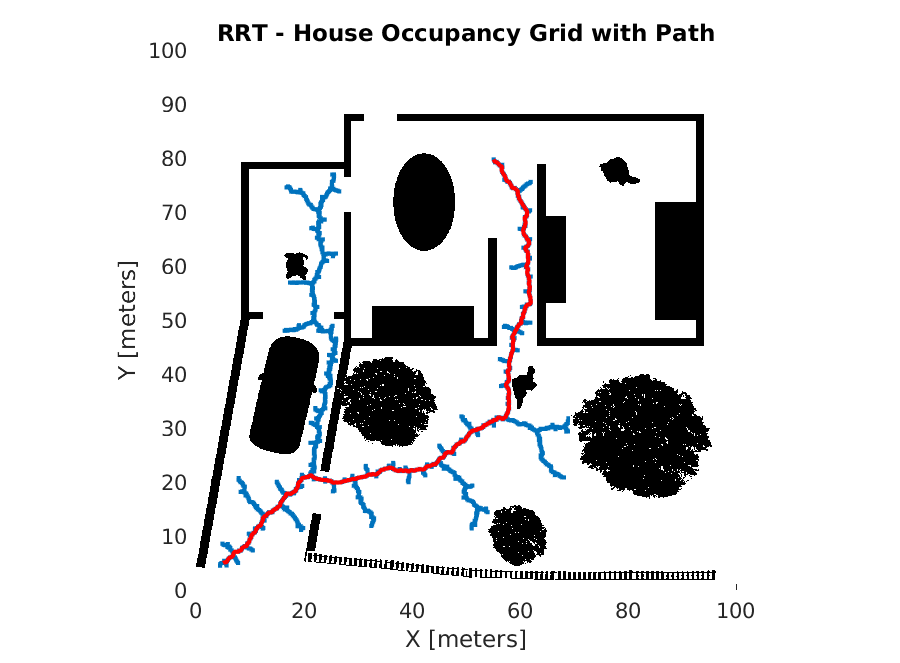
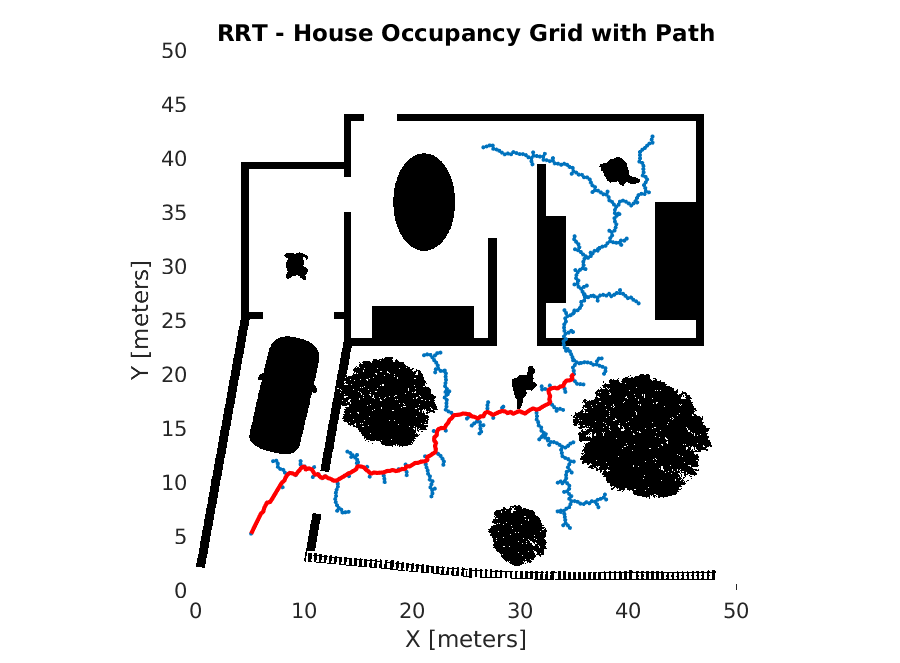
added RRT to main file. renamed MLX so m file would run

diff --git a/main.m b/main.m
@@ -3,6 +3,72 @@
 % The authors of this code are: Christian Chang, Christopher Poole, Trevor Rizzo and Diana
 % Lee Guzman
 
+close all
+clear all
+clc
+
+%% Process Overview
+
+
+%% Environment Setup
+
+% MATLAB Toolboxes Needed:
+% 
+% Parallel Computing Toolbox
+% Automated Driving Toolbox
+% Symbolic Math Toolbox
+
+% ensure figures folder exists
+if not(isfolder('figures'))
+    mkdir('figures')
+end
+
+UAVsize = 0.2;
+
+%% Map Generation
+
+[city_occgrid, city_occgrid_unscaled] = loadMap('city_map.png', 50);
+figure
+show(city_occgrid_unscaled)
+title('City Map')
+saveas(gcf,[pwd '/figures/city_map.png'])
+
+inflated_city_occgrid = inflateMap(city_occgrid, UAVsize, 1.0);
+
+[house_occgrid, house_occgrid_unscaled] = loadMap('house_map.png', 50);
+figure
+show(house_occgrid_unscaled)
+title('House Map')
+saveas(gcf,[pwd '/figures/house_map.png'])
+
+inflated_house_occgrid = inflateMap(house_occgrid, UAVsize, 1.0);
+
+%% Path Planning
+
+start_city = [30,35];
+goal_city = [5,5];
+
+start_house = [35,20];
+goal_house = [5,5];
+
+% RRT
+
+[time_elapsed_rrt_grid1, path_distance_rrt_grid1, pthObj, solnInfo] = rrt(inflated_city_occgrid, [start_city 0], [goal_city 0]);   
+plotSolvedPath(city_occgrid_unscaled,solnInfo,pthObj,'RRT - City Occupancy Grid with Path','/figures/rrt_city_path_1.png');
+
+[time_elapsed_rrt_grid2, path_distance_rrt_grid2, pthObj, solnInfo] = rrt(inflated_house_occgrid, [start_house 0], [goal_house 90]);   
+plotSolvedPath(house_occgrid_unscaled,solnInfo,pthObj,'RRT - House Occupancy Grid with Path','/figures/rrt_house_path_1.png');
+
+% A*
+
+% JPS & SFC
+
+
+%% Path Analysis
+
+
+%% Planner Analysis
+
 iterations = [1;2;3;4;5;6;7;8;9;10];
 
 %Time Elapsed sfc
@@ -10,16 +76,16 @@ time_elapsed_sfc_grid1 = [1;3;2;5;4;7;6;9;10;8];
 time_elapsed_sfc_grid2 = [1;2;3;4;5;6;7;8;9;10];
 
 %Time elapsed RRT
-time_elapsed_rrt_grid1 = [1;10;9;8;7;5;4;3;2;1];
-time_elapsed_rrt_grid2 = [10;9;8;7;6;10;9;4;5;6];
+% time_elapsed_rrt_grid1 = [1;10;9;8;7;5;4;3;2;1];
+% time_elapsed_rrt_grid2 = [10;9;8;7;6;10;9;4;5;6];
 
 %Path Distance SFC
 path_distance_sfc_grid1 = [1;3;2;5;4;7;6;9;10;8];
 path_distance_sfc_grid2 = [1;2;3;4;5;6;7;8;9;10];
 
 %Path Distance RRT
-path_distance_rrt_grid1 = [1;10;9;8;7;5;4;3;2;1];
-path_distance_rrt_grid2 = [10;9;9;7;6;10;9;4;5;6];
+% path_distance_rrt_grid1 = [1;10;9;8;7;5;4;3;2;1];
+% path_distance_rrt_grid2 = [10;9;9;7;6;10;9;4;5;6];
 
 %Nodes Visited SFC
 nodes_visited_sfc_grid1 = [1;3;2;5;4;7;6;9;10;8];
@@ -145,4 +211,6 @@ labels = {'Pass','Fail'};
 pie([rrt_pass, rrt_fail])
 title ("RRT Robustness")
 legend(labels)
+
+%% Custom Functions
 

diff --git a/jump_point_search.m b/jump_point_search.m
@@ -4,18 +4,13 @@ clear all
 
 %% Test
 
-[scaled_grid, grid] = loadMap('city_map.png', 50);
+% [scaled_grid, grid] = loadMap('city_map.png', 50);
+% start = [30, 35];
+% goal = [5, 5];
 
-goal = [5, 5];
-start = [30, 35];
-
-% start = [40, 45];
-% goal = [2, 2];
-
-% load exampleMaps.mat
-% grid = binaryOccupancyMap(complexMap);
-% start = [25,35];
-% goal = [2,2];
+[scaled_grid, grid] = loadMap('house_map.png', 50);
+start = [35,20];
+goal = [5,5];
 
 path = [];
 

diff --git a/rrt_house.m b/rrt_house.m
@@ -8,12 +8,12 @@ close all
 clc
 
 % load image and create Occupancy map from image
-[house_occgrid, house_occgrid_unscaled] = loadMap('house_map.png', 100);
+[house_occgrid, house_occgrid_unscaled] = loadMap('house_map.png', 50);
 show(house_occgrid_unscaled)
 
 %Set the start and goal states.
-start = [5,5,0];
-goal = [55,80,90];
+start = [30,40,0];
+goal = [5,5,90];
 
 %%
 UAVsize = 0.2;

diff --git a/rrt_city.m b/rrt_city.m
@@ -8,12 +8,12 @@ close all
 clc
 
 % load image and create Occupancy map from image
-[city_occgrid, city_occgrid_unscaled] = loadMap('city_map.png', 100);
+[city_occgrid, city_occgrid_unscaled] = loadMap('city_map.png', 50);
 show(city_occgrid_unscaled)
 
 %Set the start and goal states.
-start = [5,5,0];
-goal = [50,60,0];
+start = [30,35,0];
+goal = [5,5,0];
 
 %%
 UAVsize = 0.2;
